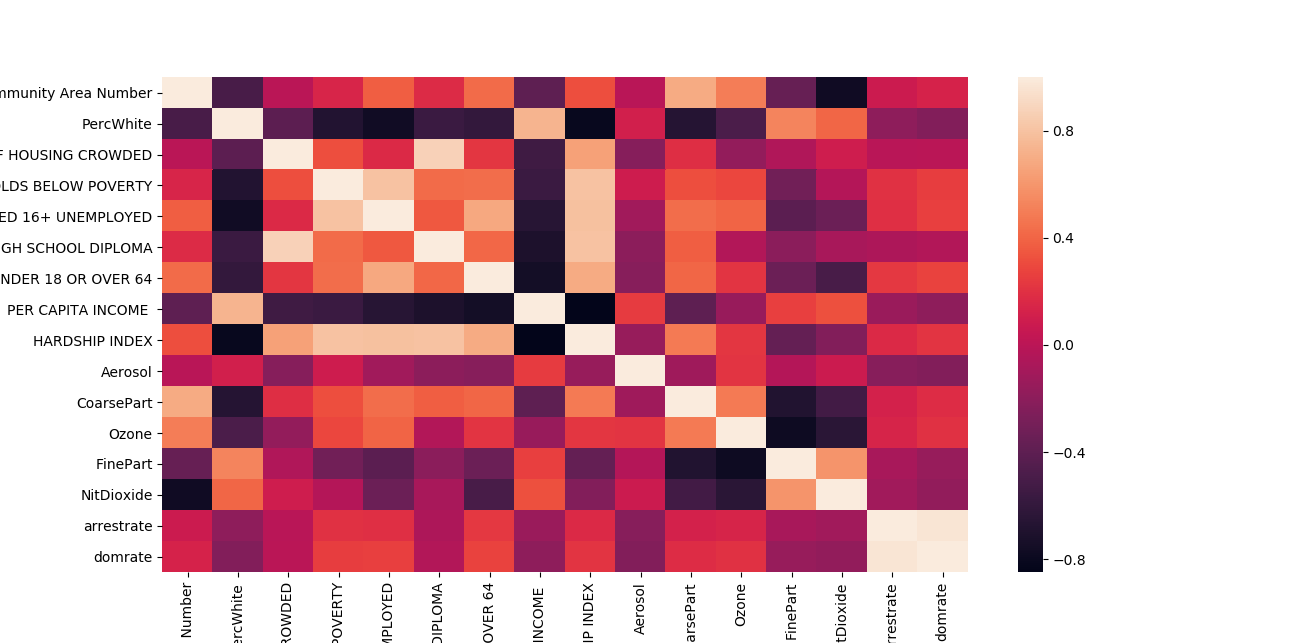
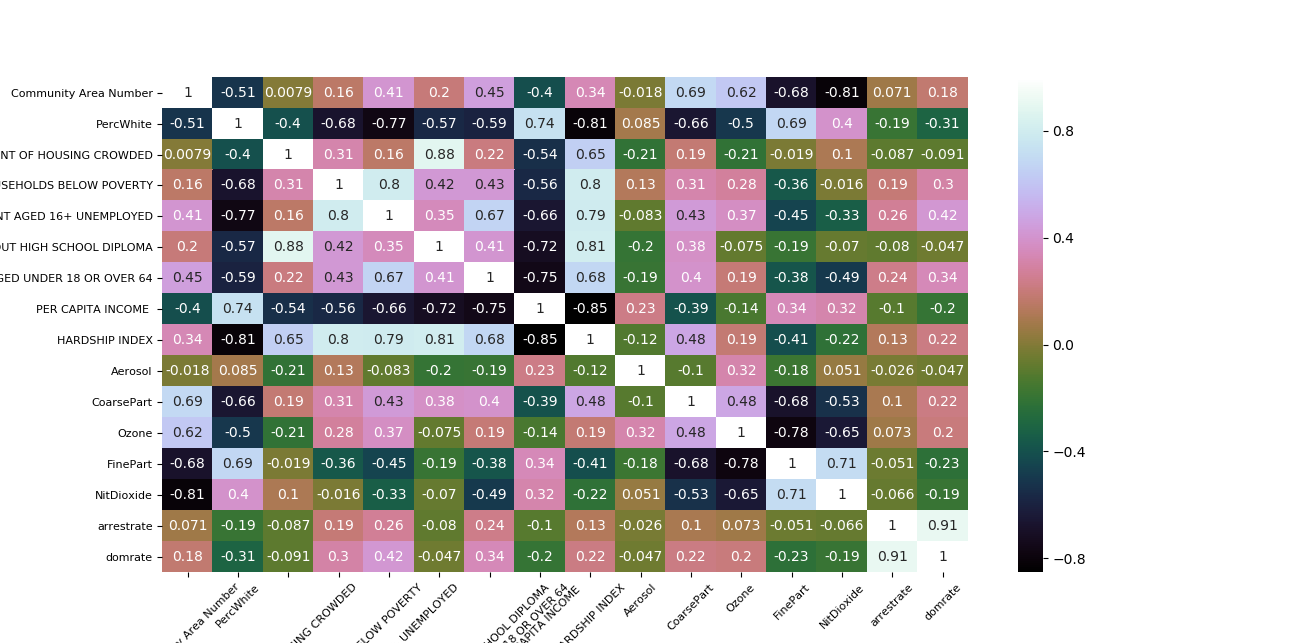
updates to presentation

diff --git a/src/ChicCrime3.py b/src/ChicCrime3.py
@@ -10,8 +10,6 @@ from seaborn import heatmap
 import geopandas as gpd
 import datetime 
 import descartes
-
-#import geoplot
 from shapely.geometry import Point, Polygon
 from statsmodels.stats.outliers_influence import variance_inflation_factor
 from numpy.linalg import svd
@@ -23,36 +21,30 @@ from sklearn.ensemble.partial_dependence import plot_partial_dependence
 from sklearn.model_selection import cross_val_score, train_test_split
 from sklearn.metrics import mean_squared_error
 from sklearn.ensemble import GradientBoostingRegressor
-
-#----Tree visualization--------------------------------
-from sklearn.tree import export_graphviz
-from IPython.display import Image
 from sklearn.metrics import r2_score
 
+
+#################wider output
 pd.options.display.max_colwidth = 100
+
+####################read data, select rows, saved to csv.
 
 #fullcrimes = pd.read_csv("../Capstone_2/data/Crimes_-_2001_to_present.csv")
 #chicagocrimes2018 = fullcrimes.where(fullcrimes['Year'] >= 2018)
-#chicagocrimes2018 = chicagocrimes2018.to_csv('data/crimes2018.csv')
 
-# chicagocrimes = pd.read_csv('data/crimes2018.csv')
 # crimes = chicagocrimes.where(chicagocrimes['Year'] == 2018) 
 crimes = pd.read_csv('data/2018crimes.csv')
 # crimes = readfile.where(readfile['Year'] == 2018, inplace=True)
-#wardnums = pd.read_csv('data/WardpopsPerc.csv', header=0)
 commareanums = pd.read_csv('data/CensusCA.csv', header = 0)
 aerosol=pd.read_excel('../../../Downloads/Aerosol_Optical_Depth_v2.xlsx')
 coarsepart=pd.read_excel('../../../Downloads/Coarse_Particle_Pollution__Inverse_Distance_Weighting.xlsx')
 finepart=pd.read_excel('../../../Downloads/Fine_Particle_Pollution__Inverse_Distance_Weighting_v2.xlsx')
 nitdioxide=pd.read_excel('../../../Downloads/Nitrogen_Dioxide_Annual_Air_Concentration_v2.xlsx')
 ozone=pd.read_excel('../../../Downloads/Ozone_Annual_Concentration__Inverse_Distance_Weighting_v2.xlsx')
-# annualepaconcs = pd.read_csv('data/annual_conc_by_monitor_2018.csv')
-# illconc = annualepaconcs[annualepaconcs['State Name'] == 'Illinois'] 
-# chiccoc = illconc[illconc['City Name']=='Chicago']
-# illconcozone = illconc[illconc['Parameter Name']=='Ozone']
-# chicozone = chiccoc[chiccoc['Parameter Name']=='Ozone']
+
 crimesdom=crimes[crimes['Domestic'] == True]
 
+##########calculate columns for EDA, analysis
 arrestsbyca = crimes.groupby('Community Area')['Arrest'].sum()
 arrestsdom=crimesdom.groupby('Community Area')['Arrest'].sum()
 
@@ -77,6 +69,7 @@ commareanums['domrate'] = commareanums['domrate'].astype('float')
 commareaanal = commareanums.drop(['COMMUNITY AREA NAME', 'POPULATION','arrestsbyca','dombyca','arrestsdom','domarrestrate'], axis = 1) 
 commareaanal=commareaanal.dropna()
 
+commareaanal = commareaanal[commareaanal['domrate'] < 600]
 X = commareaanal.drop(['Community Area Number', 'arrestrate','domrate'], axis =1)
 y = commareaanal['domrate']
 
@@ -85,12 +78,12 @@ num_estimator_list = [1,2,5,10,20,40,100,500,1000]
 
 
 
-#########plotting error values on map
+#########preparing data for map
 street_map = gpd.read_file('data/geo_export_e603e826-68c1-4029-95cf-2feaa0cc9da2.shp')
 street_map["area_numbe"] = street_map["area_numbe"].astype(int)
 
 merged = street_map.set_index('area_numbe').join(commareanums.set_index('Community Area Number'))
-
+###########functions for mapping
 def plot_map(measure):
     plotvar = merged[measure]
     vmin=plotvar.min()
@@ -104,6 +97,12 @@ def plot_map(measure):
     # add the colorbar to the figure
     cbar = fig.colorbar(sm)
 
+def scatter_plots(xmeasure, ymeasure):
+    plt.scatter(commareaanal[xmeasure],commareaanal[ymeasure])
+    #plt.title(xmeasure, 'v.', ymeasure)
+    corrxy = np.corrcoef(commareaanal[xmeasure], commareaanal[ymeasure]) 
+    print(corrxy)   
+
 
 if __name__ == '__main__':
     ######EDA
@@ -113,7 +112,9 @@ if __name__ == '__main__':
     # plt.yticks(rotation=90, fontsize=5)
 
     # cacorr=commareaanal.corr()
-    # sns.heatmap(cacorr)
+    # sns.heatmap(cacorr, cmap='cubehelix', annot=True)
+    # plt.yticks(fontsize=8)
+    # plt.xticks(rotation=45, fontsize=8)
     #############plots
     # commareanums=commareanums.sort_values('domrate')
     # plt.barh(commareanums['COMMUNITY AREA NAME'], commareanums['domrate'])
@@ -130,10 +131,7 @@ if __name__ == '__main__':
     # plt.yticks(fontsize = 5)
     # plt.title('Arrest Rate for Domestic Calls by Community Area')
 
-    # plt.scatter(commareanums['arrestrate'],commareanums['domrate'])
-    # plt.title('Arrest Population Rate v. Domestic Call Poopulation Rate')
 
-    np.corrcoef(commareanums['arrestrate'], commareanums['domrate'])
 
     # f = plt.figure(figsize=(19, 15))
     # plt.matshow(commareaanal.corr(), fignum=f.number)
@@ -143,7 +141,7 @@ if __name__ == '__main__':
     # cb.ax.tick_params(labelsize=10)
     ########mapping epa monitors in chicago
 
-    street_map = gpd.read_file('data/geo_export_e603e826-68c1-4029-95cf-2feaa0cc9da2.shp')
+    # street_map = gpd.read_file('data/geo_export_e603e826-68c1-4029-95cf-2feaa0cc9da2.shp')
 # site_points = chicozone[['Longitude', 'Latitude']].apply(lambda row:
 #               Point(row["Longitude"], row["Latitude"]), axis=1)
 # geo_sites = gpd.GeoDataFrame({"geometry": site_points,
@@ -193,43 +191,42 @@ if __name__ == '__main__':
 
     ##########Getting each CA MSE
    
-    # train_errors_rf = []
-    # test_errors_rf = []
+    train_errors_rf = []
+    test_errors_rf = []
     
-    rf = RandomForestRegressor(n_estimators = 20, n_jobs=-1)
+    rf = RandomForestRegressor(n_estimators = 100, n_jobs=-1)
     rf.fit(X, y)
     y_pred =  rf.predict(X)
     commareanums['diff2'] = (y - y_pred)**2
     commareanums['diffbyca'] = commareanums.groupby('Community Area Number')['diff2'].mean()
 
-    # plt.barh(commareanums['COMMUNITY AREA NAME'],diffbyca)
-    # plt.yticks(fontsize=5)
+    plt.barh(commareanums['COMMUNITY AREA NAME'],commareanums['diffbyca'])
+    plt.yticks(fontsize=5)
      
 
 #########plotting error values on map
-    street_map = gpd.read_file('data/geo_export_e603e826-68c1-4029-95cf-2feaa0cc9da2.shp')
-    street_map["area_numbe"] = street_map["area_numbe"].astype(int)
-    #cpd.merge(counties, us_data, on="FIPS")
-    merged = street_map.set_index('area_numbe').join(commareanums.set_index('Community Area Number'))
-    meandiff=merged['diffbyca'].mean()
-    stddiff=merged['diffbyca'].std()
-    merged['diffstdzd']=(merged['diffbyca'] - meandiff)/stddiff
-    # q = merged['diffbyca'].quantile(0.75)
-    # merged[merged["diffbyca"] < q]
+    # street_map = gpd.read_file('data/geo_export_e603e826-68c1-4029-95cf-2feaa0cc9da2.shp')
+    # street_map["area_numbe"] = street_map["area_numbe"].astype(int)
+    # #cpd.merge(counties, us_data, on="FIPS")
+    # merged = street_map.set_index('area_numbe').join(commareanums.set_index('Community Area Number'))
+    # meandiff=merged['diffbyca'].mean()
+    # stddiff=merged['diffbyca'].std()
+    # merged['diffstdzd']=(merged['diffbyca'] - meandiff)/stddiff
+    # q = merged['diffbyca'].quantile(0.95)
+    # merged = merged[merged["diffbyca"] < q]
+    # plotvar = merged['diffbyca']
+    # #vmin, vmax = 0, 100
+    # vmin=plotvar.min()
+    # vmax=plotvar.max()
+    # fig, ax = plt.subplots(1, figsize=(10, 6))
+    # merged.plot(column=plotvar, linewidth=0.8, ax=ax, cmap='PiYG')
     
-    plotvar = merged['diffbyca']
-    #vmin, vmax = 0, 100
-    vmin=plotvar.min()
-    vmax=plotvar.max()
-    fig, ax = plt.subplots(1, figsize=(10, 6))
-    merged.plot(column=plotvar, linewidth=0.8, ax=ax, cmap='PRGn')
-    #plt.clim(plotvar.min(), plotvar.max())
-    # Create colorbar as a legend
-    sm = plt.cm.ScalarMappable(norm=plt.Normalize(vmin=vmin, vmax=vmax), cmap='PRGn')
-    # empty array for the data range
-    sm._A = []
-    # add the colorbar to the figure
-    cbar = fig.colorbar(sm)
+    # # Create colorbar as a legend
+    # sm = plt.cm.ScalarMappable(norm=plt.Normalize(vmin=vmin, vmax=vmax), cmap='PiYG')
+    # # empty array for the data range
+    # sm._A = []
+    # # add the colorbar to the figure
+    # cbar = fig.colorbar(sm)
     
     
 
@@ -277,7 +274,7 @@ if __name__ == '__main__':
 
     
     
-    # fig, axs = plot_partial_dependence(gb, X_train, [2],
+    # fig, axs = plot_partial_dependence(gb, X_train, [12],
     #                                    feature_names = commareaanal.columns.values[1:14],
     #                                    n_jobs=-1, grid_resolution=50)
     # fig.subplots_adjust(hspace = .2)
